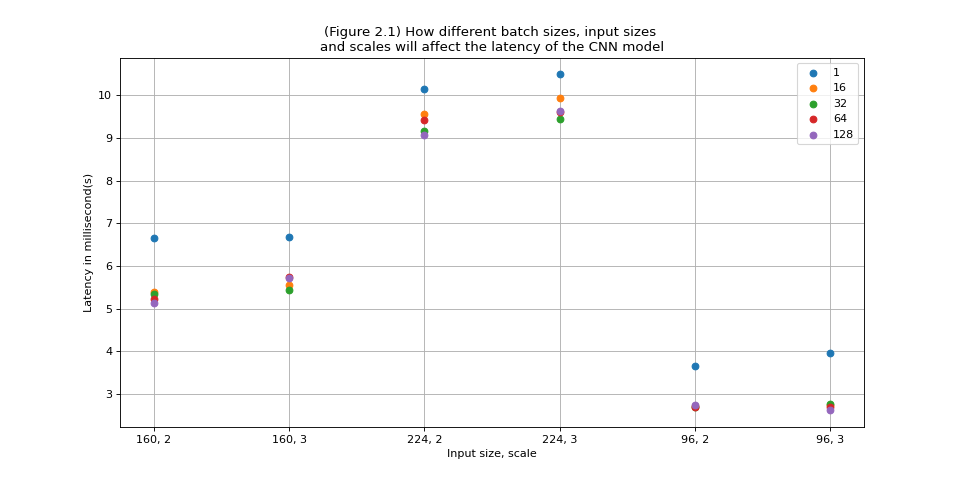
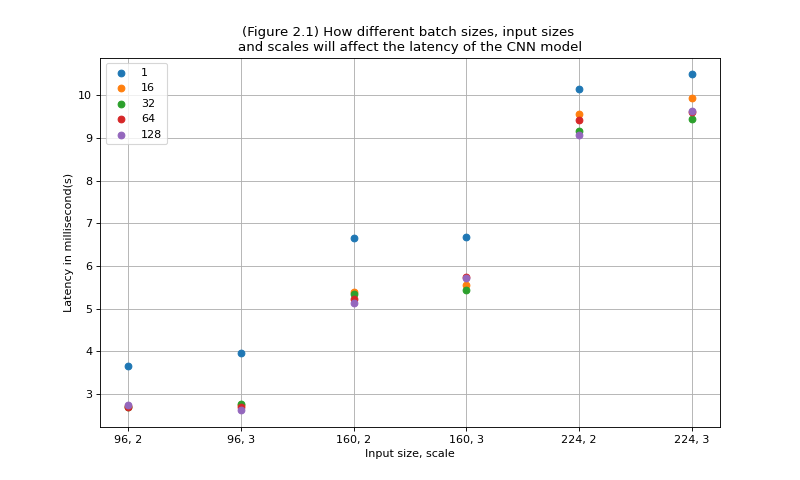
latency plot

diff --git a/plotting.py b/plotting.py
@@ -6,15 +6,16 @@ import json,re
 from matplotlib.pyplot import figure
 
 flash_size = 1024
-figure(figsize=(12, 6), dpi=80)
+
 
 fig_path = "/Users/qianxi/Desktop/Leon/2022-2024/2022fall/644/project/code/figures/"
-width_multiplier_list = [0.35,0.5,0.75,1.0]
-model_size_before = [1638.4, 2867.2, 5529.6, 9113.6]
-model_size_after = [623, 973, 1740.8, 2764.8]
+
 
 def draw_size_plot_mobilenet():
     pair_list = []
+    width_multiplier_list = [0.35,0.5,0.75,1.0]
+    model_size_before = [1638.4, 2867.2, 5529.6, 9113.6]
+    model_size_after = [623, 973, 1740.8, 2764.8]
     for i in range(len(width_multiplier_list)):
         pair_list.append((width_multiplier_list[i],model_size_before[i]))
         pair_list.append((width_multiplier_list[i],model_size_after[i]))
@@ -34,13 +35,46 @@ def draw_size_plot_mobilenet():
 
 
 
-    plt.axhline(flash_size,color="red",label="Flash Constraint")
-    plt.legend(labels=["Before Compression","After Compression","Flash Constraint"])
-    plt.title("(Figure 1) MobileNet V2 model size with different width multiplier")
+    plt.axhline(flash_size,color="red",label="Storage Constraint")
+    plt.legend(labels=["Before Compression","After Compression","Storage Constraint"], loc='upper left')
+    plt.title("(Figure 1.1) MobileNet V2 model size with different width multiplier")
     plt.xlabel("Width Multiplier")
-    plt.ylabel("Model Size in kb")
+    plt.ylabel("Model size in kb")
 
-    plt.savefig(fig_path+"first.png") 
+    plt.savefig(fig_path+"first-1.png") 
+    plt.clf()
+
+def draw_size_plot_cnn():
+    plt.grid()
+    pair_list = []
+    scale_list = [2,3]
+    model_size_before = [525, 1740.8]
+    model_size_after = [143, 446]
+
+    for i in range(len(scale_list)):
+        pair_list.append((scale_list[i],model_size_before[i]))
+        pair_list.append((scale_list[i],model_size_after[i]))
+        
+
+    plt.rc('axes', axisbelow=True)
+    
+
+    plt.scatter( x=scale_list, y=model_size_before)
+    plt.scatter( x=scale_list, y=model_size_after)
+
+    plt.ylim((0, max(model_size_before)+500))
+
+    for each in pair_list:
+        plt.text(each[0]-0.05, each[1], f"({each[0]}, {each[1]} kb)")
+
+    plt.axhline(flash_size,color="red",label="Storage Constraint")
+    plt.legend(labels=["Before Compression","After Compression","Storage Constraint"], loc='upper left')
+    plt.title("(Figure 1.2) CNN model sizes with different architectures\nlarger scale number means more convolution layers")
+    plt.xlabel("Scale of the model")
+    plt.ylabel("Model size in kb")
+    plt.xticks(np.arange(min(scale_list), max(scale_list)+1, 1))
+    plt.savefig(fig_path+"first-2.png") 
+    plt.clf()
 
 def draw_latency_plot():
     def find_components(string, find_type):
@@ -59,14 +93,29 @@ def draw_latency_plot():
     plt.grid()
     batch_sizes = file_content.keys()
     for each_batch_size in batch_sizes:
-        models = [i for i in file_content[each_batch_size].keys()]
+      
+        models = []
+        for each in file_content[each_batch_size].keys():
+            if "_96" in each:
+                models.append(each.replace("_96","_096"))
+            else:
+                models.append(each)
+
         models.sort()
-        latency_list = [file_content[each_batch_size][i] for i in models]
+        
+        models2=[]
+
+        for each in models:
+            if "_096" in each:
+                models2.append(each.replace("_096","_96"))
+            else:
+                models2.append(each)
+        latency_list = [file_content[each_batch_size][i] for i in models2]
 
         colors = np.random.rand(50)
 
         new_x_list = []
-        for each in models:
+        for each in models2:
             pair = find_components(each, 'cnn')
             new_str = f"{pair[0]}, {pair[1]}"
             new_x_list.append(new_str)
@@ -77,7 +126,7 @@ def draw_latency_plot():
     plt.xlabel("Input size, scale")
     plt.ylabel("Latency in millisecond(s)")
     plt.title("(Figure 2.1) How different batch sizes, input sizes \nand scales will affect the latency of the CNN model")
-    plt.legend(labels=[i for i in batch_sizes])
+    plt.legend(labels=[i for i in batch_sizes], loc='upper left')
 
     plt.savefig(fig_path+"second-1.png")
     plt.clf()
@@ -89,22 +138,36 @@ def draw_latency_plot():
     plt.grid()
     batch_sizes = file_content.keys()
     for each_batch_size in batch_sizes:
-        models = [i for i in file_content[each_batch_size].keys()]
+        models = []
+        for each in file_content[each_batch_size].keys():
+            if "_96" in each:
+                models.append(each.replace("_96","_096"))
+            else:
+                models.append(each)
+
         models.sort()
-       
-        latency_list = [file_content[each_batch_size][i] for i in models]
+        
+        models2=[]
+
+        for each in models:
+            if "_096" in each:
+                models2.append(each.replace("_096","_96"))
+            else:
+                models2.append(each)
+
+        latency_list = [file_content[each_batch_size][i] for i in models2]
 
         colors = np.random.rand(50)
 
         new_x_list = []
-        for each in models:
+        for each in models2:
             pair = find_components(each, 'mobilenet')
             new_str = f"{pair[0]}, {pair[1]}"
             new_x_list.append(new_str)
         #x_data = [f"{[0]}, {find_components(i, 'cnn')[1]}" for i in models]
         
         plt.scatter( x=new_x_list, y=latency_list)
-    plt.legend(labels=[i for i in batch_sizes])
+    plt.legend(labels=[i for i in batch_sizes], loc='upper left')
     plt.xlabel("Input size, width multiplier",labelpad=7)
     plt.ylabel("Latency in millisecond(s)")
     plt.title("(Figure 2.2) How different batch sizes, input sizes \nand scales will affect the latency of MobileNet V2 model")
@@ -112,7 +175,11 @@ def draw_latency_plot():
     plt.xticks(rotation = 45)
     plt.savefig(fig_path+"second-2.png")
             
-     
+draw_size_plot_mobilenet()
 
+
+draw_size_plot_cnn()
+
+plt.grid()
+figure(figsize=(10, 6), dpi=80)
 draw_latency_plot()
-#draw_size_plot_mobilenet()
